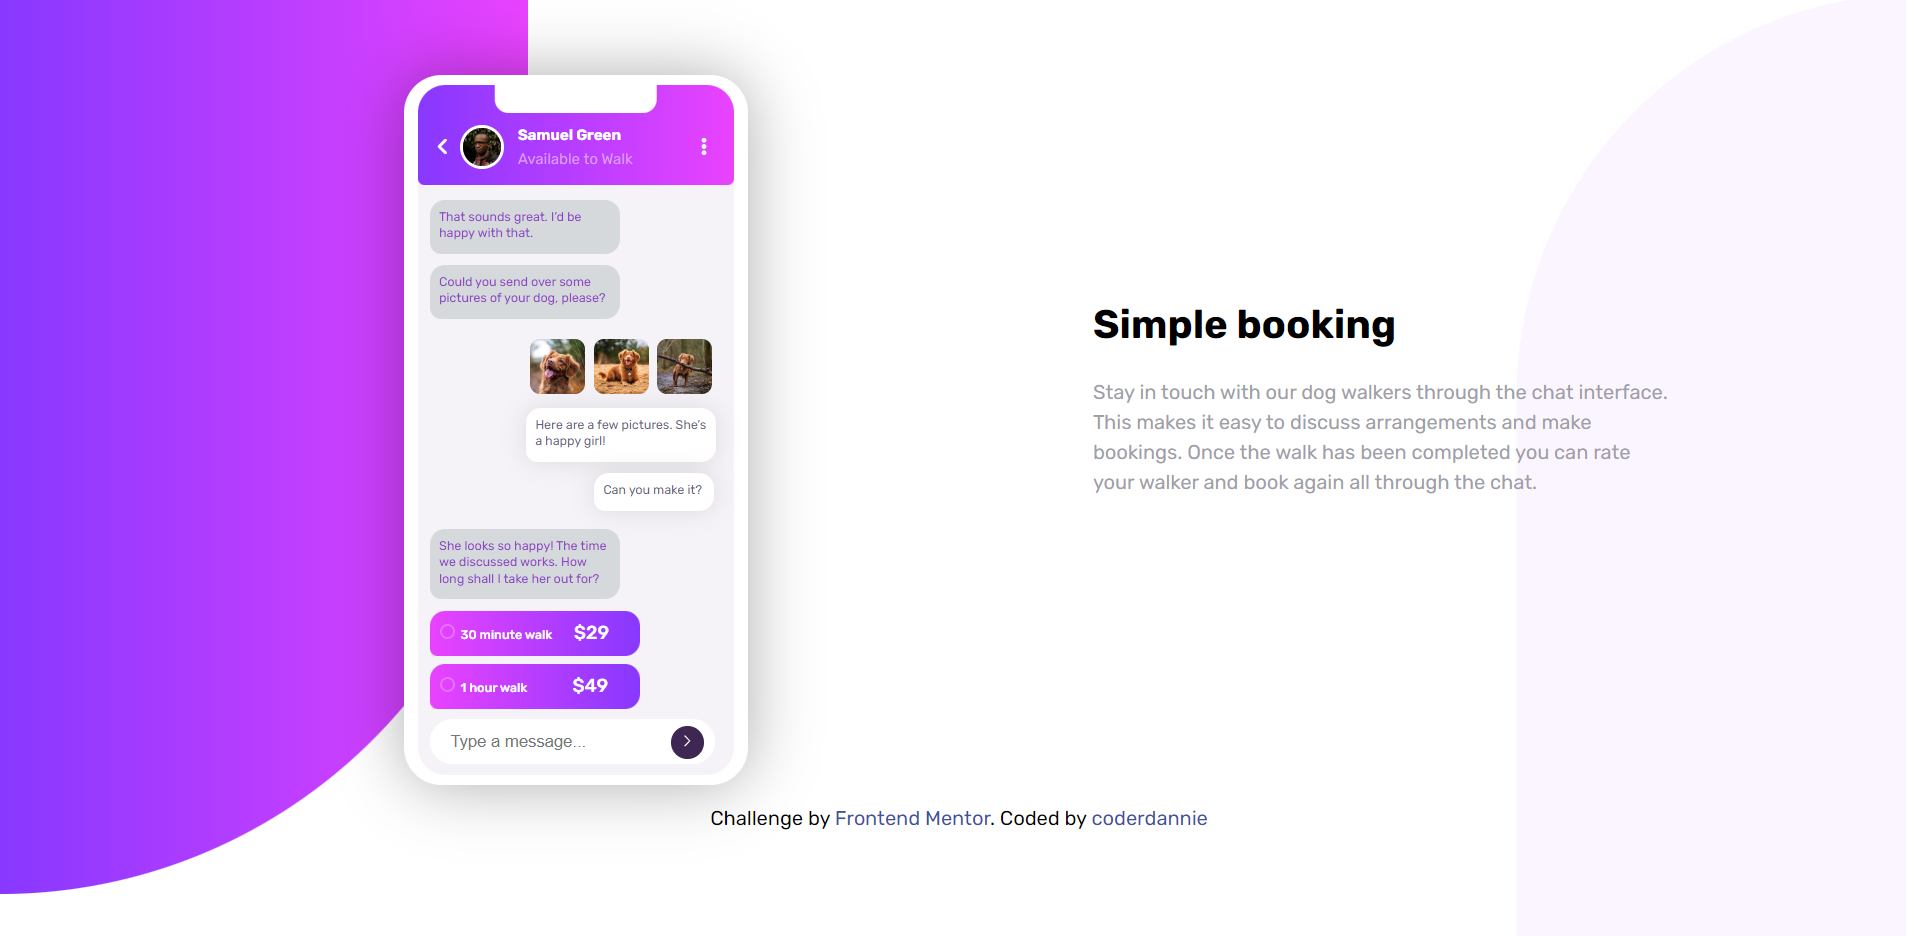
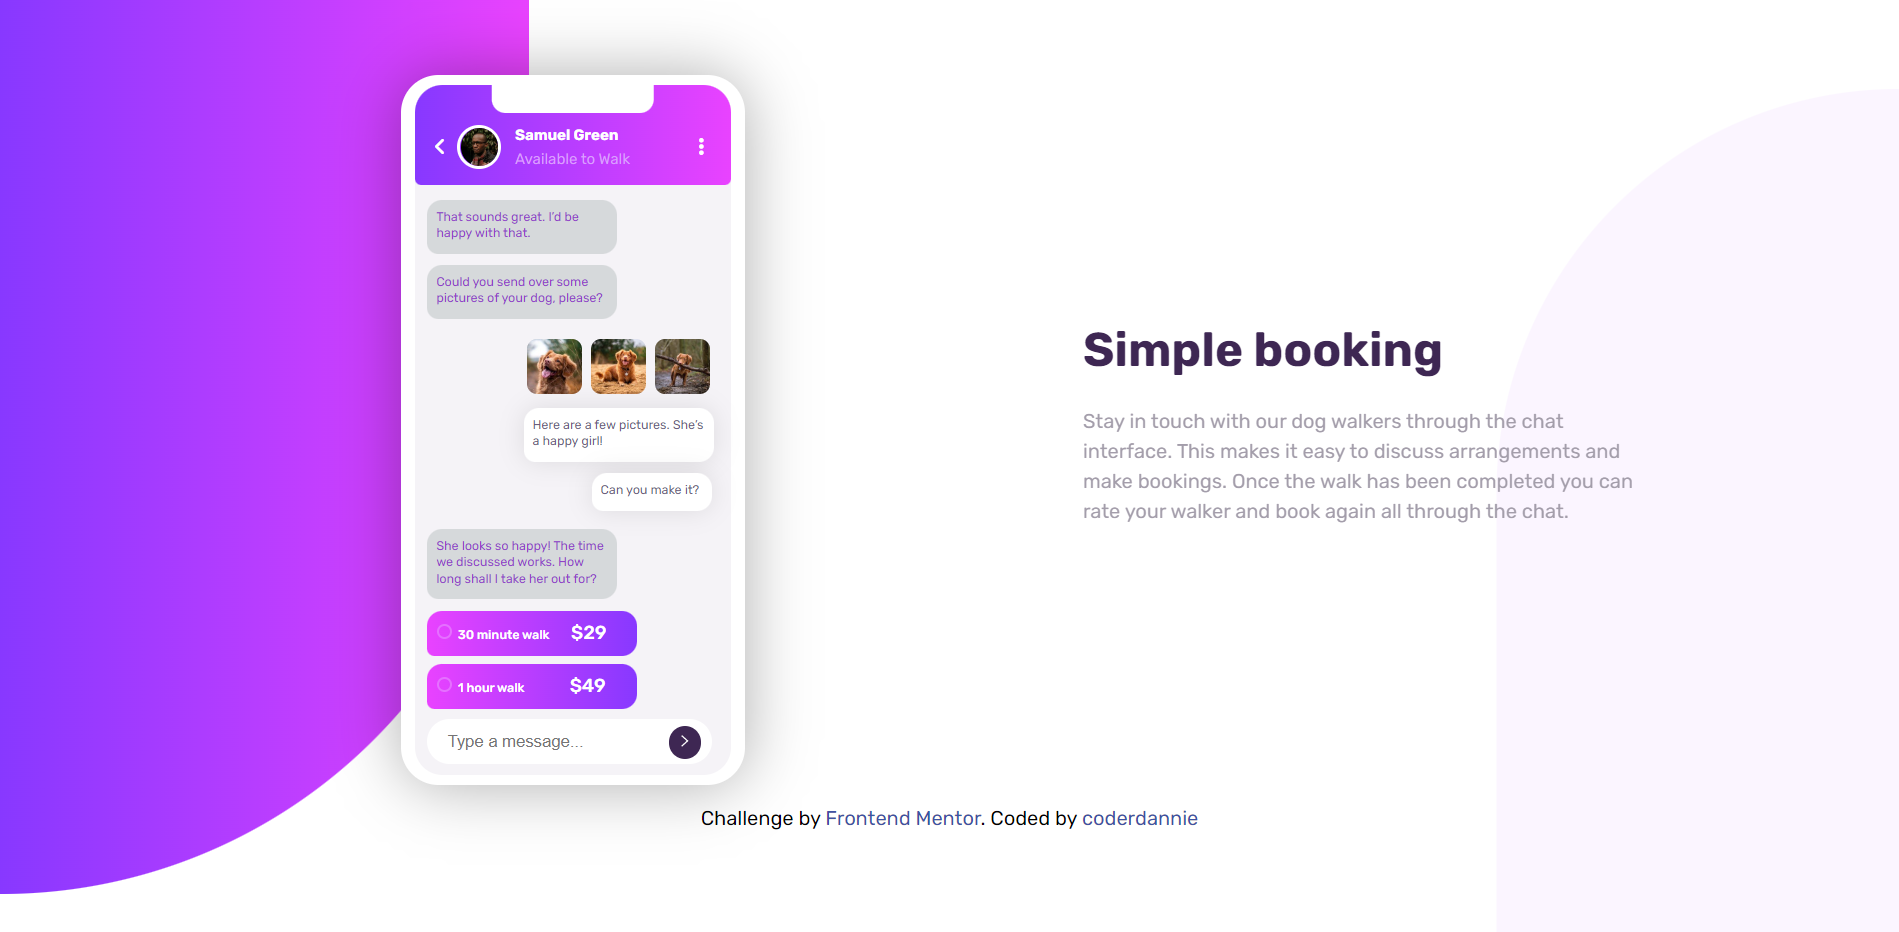
second commit

diff --git a/dist/style.css b/dist/style.css
@@ -1,1 +1,1 @@
-.hero{width:100%;height:100vh;position:relative}.hero::before{content:"";display:block;width:100%;max-width:50%;height:31.25rem;position:absolute;top:0;left:0;background:linear-gradient(to right, hsl(264, 100%, 61%), hsl(293, 100%, 63%));border-bottom-right-radius:1000px}@media(min-width: 64em){.hero::before{height:45rem;max-width:26.4375rem}}@media(min-width: 64em){.hero::after{content:"";width:322px;display:block;height:100%;background-color:#fbf5ff;border-bottom-right-radius:400px;position:absolute;z-index:-1;bottom:0;right:0;transform:rotate(180deg)}}html{font-size:100;box-sizing:border-box;scroll-behavior:smooth}*,*::before,*::after{box-sizing:inherit;padding:0;margin:0}a,a:visited{text-decoration:none}body{width:100%;font-family:"Rubik",sans-serif;font-size:1rem;line-height:1.1}@media(min-width: 64em){.body__background{display:flex;align-items:center;justify-content:space-around}}.flex{display:flex}.flex-jc-sb{justify-content:space-between}.flex-jc-c{justify-content:center}@media(min-width: 64em){.hide-for-desktop{display:none}}@media(min-width: 40em){.hide-for-mobile{display:none}}.app__container{position:relative;height:40.625rem}.app{position:absolute;top:5%;left:50%;transform:translateX(-50%);width:17.1875rem;height:35.5rem;background-color:#fff;border-radius:30px;box-shadow:0 0 50px rgba(0,0,0,.3);display:flex;justify-content:center;align-items:center}@media(min-width: 64em){.app{position:relative;top:10%;left:45%;transform:translateX(0)}}.app__innercontainer{width:15.8rem;height:34.5rem;background-color:#f5f3f7;border-radius:22px}.app__header{width:15.8rem;height:5rem;position:relative;background:linear-gradient(to right, hsl(264, 100%, 61%), hsl(293, 100%, 63%));border-top-left-radius:22px;border-top-right-radius:22px;border-bottom-left-radius:5px;border-bottom-right-radius:5px;padding-top:32px;padding-inline:16px}.app__header::after{content:"";display:block;position:absolute;top:0;left:50%;transform:translateX(-50%);width:130px;height:22px;background-color:#fff;border-bottom-left-radius:11px;border-bottom-right-radius:11px}.app__header-content{display:flex;align-items:center}.app__header-img{width:2.1875rem;height:2.1875rem;border-radius:50%;border:3px solid #fff;display:inline-block;text-align:center}.app__header-img img{width:1.875rem;height:1.875rem;border-radius:50%}.app__header-text{font-size:.75rem;color:#fff;padding-left:.6875rem}.app__header-text p{color:#d89eff;padding-top:.375rem}.app .fa-solid{color:#fff;padding-right:.625rem}.app .dots{padding-left:3.4375rem;padding-right:0}.app__chatbox{padding:12px 10px 11px}.app__chat{width:9.5rem;font-size:.625rem;line-height:1.3;padding:7px;padding-bottom:10px;border-top-left-radius:12px;border-top-right-radius:12px;border-bottom-left-radius:9px;border-bottom-right-radius:12px;margin-bottom:.5625rem}.app__chat-left{background-color:#d6d9db;color:#9241c8}.app__chat-right{background-color:#fff;color:#6e5d7e;box-shadow:0 0 20px rgba(0,0,0,.1)}.app__chat-right:last-child{width:6rem;margin-left:3.4rem;margin-bottom:15px}.app__right-chart-container{margin-top:1rem;margin-left:4.8125rem}.app__chart-img{margin-bottom:.5rem}.app__chart-img img{width:2.75rem;height:2.75rem;border-radius:.5rem;margin-left:3px}.app__chat-cta{width:10.5rem;font-size:.625rem;font-weight:500 !important;color:#fff;background:linear-gradient(to left, hsl(264, 100%, 61%), hsl(293, 100%, 63%));border-top-left-radius:12px;border-top-right-radius:12px;border-bottom-left-radius:6px;border-bottom-right-radius:12px;padding-top:10px;padding-bottom:10px;padding-left:8px;padding-right:16px;margin-bottom:.375rem}.app__chat-cta p{display:inline-block}.app__chat-cta span{font-size:.9375rem;padding-left:.9375rem}.app #span{padding-left:2.125rem}.app form{position:relative;margin-top:.5rem}.app input[type=text]{width:228px;height:36px;padding-left:1rem;border-radius:18px;border:0}.app__radio-btn{display:inline-block;width:.75rem;height:.75rem;border-radius:50%;border:2px solid #e570ff;margin-right:2px}.app button{width:1.625rem;height:1.625rem;position:absolute;right:6%;top:15%;border-radius:50%;border:0;background-color:#3e2753;cursor:pointer}.app button img{width:6px}.main__content{max-width:80%;text-align:center;margin:0 auto;margin-bottom:50px}@media(min-width: 64em){.main__content{max-width:30%;text-align:left;margin:0 0}}.main__content h4{font-size:2.375rem;color:#3e2753;padding-top:2.5rem}.main__content p{color:#a39daa;font-size:1rem;line-height:1.5;padding-top:1.5rem}/*# sourceMappingURL=style.css.map */
+.hero{width:100%;height:100vh;position:relative}.hero::before{content:"";display:block;width:100%;max-width:50%;height:31.25rem;position:absolute;top:0;left:0;background:linear-gradient(to right, hsl(264, 100%, 61%), hsl(293, 100%, 63%));border-bottom-right-radius:1000px}@media(min-width: 64em){.hero::before{height:45rem;max-width:26.4375rem}}@media(min-width: 64em){.hero::after{content:"";width:322px;display:block;height:100%;background-color:#fbf5ff;border-bottom-right-radius:400px;position:absolute;z-index:-1;bottom:0;right:0;transform:rotate(180deg) translateY(-10%)}}html{font-size:100;box-sizing:border-box;scroll-behavior:smooth}*,*::before,*::after{box-sizing:inherit;padding:0;margin:0}a,a:visited{text-decoration:none}body{width:100%;font-family:"Rubik",sans-serif;font-size:1rem;line-height:1.1}@media(min-width: 64em){.body__background{display:flex;align-items:center;justify-content:space-around}}.flex{display:flex}.flex-jc-sb{justify-content:space-between}.flex-jc-c{justify-content:center}@media(min-width: 64em){.hide-for-desktop{display:none}}@media(min-width: 40em){.hide-for-mobile{display:none}}.app__container{position:relative;height:40.625rem}.app{--app-load: 500ms;--app-chats-load-time: 700ms;position:absolute;top:5%;left:50%;transform:translateX(-50%);width:17.1875rem;height:35.5rem;background-color:#fff;border-radius:30px;box-shadow:0 0 50px rgba(0,0,0,.3);display:flex;justify-content:center;align-items:center;animation:app-load var(--app-load) ease-in}@media(min-width: 64em){.app{position:relative;top:10%;left:45%;transform:translateX(0)}}.app__innercontainer{width:15.8rem;height:34.5rem;background-color:#f5f3f7;border-radius:22px}.app__header{width:15.8rem;height:5rem;position:relative;background:linear-gradient(to right, hsl(264, 100%, 61%), hsl(293, 100%, 63%));border-top-left-radius:22px;border-top-right-radius:22px;border-bottom-left-radius:5px;border-bottom-right-radius:5px;padding-top:32px;padding-inline:16px}.app__header::after{content:"";display:block;position:absolute;top:0;left:50%;transform:translateX(-50%);width:130px;height:22px;background-color:#fff;border-bottom-left-radius:11px;border-bottom-right-radius:11px}.app__header-content{display:flex;align-items:center}.app__header-img{width:2.1875rem;height:2.1875rem;border-radius:50%;border:3px solid #fff;display:inline-block;text-align:center}.app__header-img img{width:1.875rem;height:1.875rem;border-radius:50%}.app__header-text{font-size:.75rem;color:#fff;padding-left:.6875rem}.app__header-text p{color:#d89eff;padding-top:.375rem}.app .fa-solid{color:#fff;padding-right:.625rem}.app .dots{padding-left:3.4375rem;padding-right:0}.app__chatbox{padding:12px 10px 11px}.app__chat-animate{animation-name:chats-load;animation-duration:var(--app-chats-load-time);animation-timing-function:ease-in;animation-delay:var(--app-load);animation-fill-mode:forwards;transform:scale(0)}.app__chat{width:9.5rem;font-size:.625rem;line-height:1.3;padding:7px;padding-bottom:10px;border-top-left-radius:12px;border-top-right-radius:12px;border-bottom-left-radius:9px;border-bottom-right-radius:12px;margin-bottom:.5625rem}.app__chat-left{background-color:#d6d9db;color:#9241c8}.app__chat-right{background-color:#fff;color:#6e5d7e;box-shadow:0 0 20px rgba(0,0,0,.1)}.app__chat-right:last-child{width:6rem;margin-left:3.4rem;margin-bottom:15px}.app__right-chart-container{margin-top:1rem;margin-left:4.8125rem}.app__chart-img{margin-bottom:.5rem}.app__chart-img img{width:2.75rem;height:2.75rem;border-radius:.5rem;margin-left:3px}.app__chat-cta{width:10.5rem;font-size:.625rem;font-weight:500 !important;color:#fff;background:linear-gradient(to left, hsl(264, 100%, 61%), hsl(293, 100%, 63%));border-top-left-radius:12px;border-top-right-radius:12px;border-bottom-left-radius:6px;border-bottom-right-radius:12px;padding-top:10px;padding-bottom:10px;padding-left:8px;padding-right:16px;margin-bottom:.375rem}.app__chat-cta p{display:inline-block}.app__chat-cta span{font-size:.9375rem;padding-left:.9375rem}.app #span{padding-left:2.125rem}.app form{position:relative;margin-top:.5rem}.app input[type=text]{width:228px;height:36px;padding-left:1rem;border-radius:18px;border:0}.app__radio-btn{display:inline-block;width:.75rem;height:.75rem;border-radius:50%;border:2px solid #e570ff;margin-right:2px}.app button{width:1.625rem;height:1.625rem;position:absolute;right:6%;top:15%;border-radius:50%;border:0;background-color:#3e2753;cursor:pointer}.app button img{width:6px}@keyframes app-load{0%{left:0;transform:translateX(-200%)}100%{left:50%;transform:translateX(-50%)}}@keyframes chats-load{0%{transform:scale(0)}90%{transform:scale(1.1)}100%{transform:scale(1)}}.main__content{max-width:80%;text-align:center;margin:0 auto;margin-bottom:50px}@media(min-width: 64em){.main__content{max-width:30%;text-align:left;margin:0 0}}.main__content h1{color:#3e2753;padding-top:2.5rem;animation:content-load 300ms ease-in 900ms;animation-fill-mode:forwards;transform:translateX(-20px);opacity:0}@media(min-width: 64em){.main__content h1{font-size:2.375rem}}.main__content p{color:#a39daa;font-size:1rem;line-height:1.5;padding-top:1.5rem;animation:content-load 300ms ease-in 1200ms;animation-fill-mode:forwards;transform:translateX(-20px);opacity:0}@keyframes content-load{0%{transform:translateY(-20px);opacity:0}100%{transform:translateY(0);opacity:1}}/*# sourceMappingURL=style.css.map */

diff --git a/index.html b/index.html
@@ -11,7 +11,7 @@
       sizes="32x32"
       href="./images/favicon-32x32.png"
     />
-    <title>Frontend Mentor | [Challenge Name Here]</title>
+    <title>Frontend Mentor | [chat app]</title>
     <link rel="preconnect" href="https://fonts.googleapis.com" />
     <link
       href="https://fonts.googleapis.com/css2?family=Rubik:wght@400;500;700&display=swap"
@@ -45,35 +45,35 @@
                     <i class="fa-solid fa-ellipsis-vertical dots"></i>
                   </div>
                 </div>
-                <div class="app__chatbox">
-                  <div class="app__chat app__chat-left">
+                <div class="app__chatbox ">
+                  <div class="app__chat app__chat-left app__chat-animate">
                     That sounds great. I’d be happy with that.
                   </div>
-                  <div class="app__chat app__chat-left">
+                  <div class="app__chat app__chat-left app__chat-animate">
                     Could you send over some pictures of your dog, please?
                   </div>
                   <div class="app__right-chart-container">
-                    <div class="app__chart-img">
+                    <div class="app__chart-img app__chat-animate">
                       <img src="images/dog-image-1.jpg" alt="" />
                       <img src="images/dog-image-2.jpg" alt="" />
                       <img src="images/dog-image-3.jpg" alt="" />
                     </div>
-                    <div class="app__chat app__chat-right">
+                    <div class="app__chat app__chat-right app__chat-animate">
                       Here are a few pictures. She’s a happy girl!
                     </div>
-                    <div class="app__chat app__chat-right">Can you make it?</div>
+                    <div class="app__chat app__chat-right app__chat-animate">Can you make it?</div>
                   </div>
-                  <div class="app__chat app__chat-left">
+                  <div class="app__chat app__chat-left app__chat-animate">
                     She looks so happy! The time we discussed works. How long
                     shall I take her out for?
                   </div>
-                  <div class="app__chat-cta">
-                    <div class="app__radio-btn">
+                  <div class="app__chat-cta app__chat-animate">
+                    <div class="app__radio-btn ">
                     </div>
                     <p>30 minute walk</p>
                     <span>$29</span>
                   </div>
-                  <div class="app__chat-cta">
+                  <div class="app__chat-cta app__chat-animate">
                     <div class="app__radio-btn">
                     </div>
                     <p>1 hour walk</p>

diff --git a/app/scss/_app.scss b/app/scss/_app.scss
@@ -3,6 +3,8 @@
   height: 40.625rem;
 }
 .app {
+  --app-load: 500ms;
+  --app-chats-load-time: 700ms;
   @include breakpoint-up(large) {
     position: relative;
     top: 10%;
@@ -21,6 +23,7 @@
   display: flex;
   justify-content: center;
   align-items: center;
+  animation: app-load var(--app-load) ease-in;
   &__innercontainer {
     width: 15.8rem;
     height: 34.5rem;
@@ -39,7 +42,7 @@
     padding-top: 32px;
     padding-inline: 16px;
     &::after {
-      content: "";
+      content: '';
       display: block;
       position: absolute;
       top: 0;
@@ -90,6 +93,14 @@
   &__chatbox {
     padding: 12px 10px 11px;
   }
+  &__chat-animate {
+    animation-name: chats-load;
+    animation-duration: var(--app-chats-load-time);
+    animation-timing-function: ease-in;
+    animation-delay: var(--app-load);
+    animation-fill-mode: forwards;
+    transform: scale(0);
+  }
   &__chat {
     width: 9.5rem;
     font-size: 0.625rem;
@@ -101,6 +112,7 @@
     border-bottom-left-radius: 9px;
     border-bottom-right-radius: 12px;
     margin-bottom: 0.5625rem;
+
     &-left {
       background-color: hsl(204, 7%, 85%);
       color: $moderateviolet;
@@ -116,6 +128,7 @@
       margin-bottom: 15px;
     }
   }
+
   &__right-chart-container {
     margin-top: 1rem;
     margin-left: 4.8125rem;
@@ -159,7 +172,7 @@
     position: relative;
     margin-top: 0.5rem;
   }
-  input[type="text"] {
+  input[type='text'] {
     width: 228px;
     height: 36px;
     padding-left: 1rem;
@@ -188,5 +201,28 @@
     img {
       width: 6px;
     }
+  }
+}
+
+@keyframes app-load {
+  0% {
+    left: 0;
+    transform: translateX(-200%);
+  }
+  100% {
+    left: 50%;
+    transform: translateX(-50%);
+  }
+}
+
+@keyframes chats-load {
+  0% {
+    transform: scale(0);
+  }
+  90% {
+    transform: scale(1.1);
+  }
+  100% {
+    transform: scale(1);
   }
 }

diff --git a/app/scss/_maincontent.scss b/app/scss/_maincontent.scss
@@ -8,15 +8,35 @@
   text-align: center;
   margin: 0 auto;
   margin-bottom: 50px;
-  h4 {
-    font-size: 2.375rem;
+  h1 {
+    @include breakpoint-up(large) {
+      font-size: 2.375rem;
+    }
     color: $VeryDarkDesaturatedViolet;
     padding-top: 2.5rem;
+    animation: content-load 300ms ease-in 900ms;
+    animation-fill-mode: forwards;
+    transform: translateX(-20px);
+    opacity: 0;
   }
   p {
     color: $DarkGrayishViolet;
     font-size: 1rem;
     line-height: 1.5;
     padding-top: 1.5rem;
+    animation: content-load 300ms ease-in 1200ms;
+    animation-fill-mode: forwards;
+    transform: translateX(-20px);
+    opacity: 0;
+  }
+}
+@keyframes content-load {
+  0% {
+    transform: translateY(-20px);
+    opacity: 0;
+  }
+  100% {
+    transform: translateY(0);
+    opacity: 1;
   }
 }

diff --git a/app/scss/_hero.scss b/app/scss/_hero.scss
@@ -30,7 +30,7 @@
       z-index: -1;
       bottom: 0;
       right: 0;
-      transform: rotate(180deg);
+      transform: rotate(180deg) translateY(-10%);
     }
   }
 }

diff --git a/README.md b/README.md
@@ -1,92 +1,49 @@
-# Frontend Mentor - Chat app CSS illustration
+# Frontend Mentor - Chat app CSS illustration solution
 
-![Design preview for the Chat app CSS illustration coding challenge](./design/desktop-preview.jpg)
+This is a solution to the [Chat app CSS illustration challenge on Frontend Mentor](https://www.frontendmentor.io/challenges/chat-app-css-illustration-O5auMkFqY). Frontend Mentor challenges help you improve your coding skills by building realistic projects.
 
-## Welcome! 👋
+## Table of contents
 
-Thanks for checking out this front-end coding challenge.
+- [Overview](#overview)
+  - [The challenge](#the-challenge)
+  - [Screenshot](#screenshot)
+  - [Links](#links)
+- [My process](#my-process)
+  - [Built with](#built-with)
+- [Author](#author)
 
-[Frontend Mentor](https://www.frontendmentor.io) challenges help you improve your coding skills by building realistic projects.
+**Note: Delete this note and update the table of contents based on what sections you keep.**
 
-**To do this challenge, you need a strong understanding of HTML and CSS.**
+## Overview
 
-## The challenge
+### The challenge
 
-Your challenge is to build out this feature illustration using HTML & CSS and get it looking as close to the design as possible.
-
-The only assets we provide in this challenge are the image of the person in the app UI and the 3 images of the dog. You need to create everything else using HTML & CSS!
-
-Your users should be able to:
+Users should be able to:
 
 - View the optimal layout for the component depending on their device's screen size
 - **Bonus**: See the chat interface animate on the initial load
 
-Want some support on the challenge? [Join our Slack community](https://www.frontendmentor.io/slack) and ask questions in the **#help** channel.
+### Screenshot
 
-## Where to find everything
+![](./images/screenshot.PNG)
 
-Your task is to build out the project to the designs inside the `/design` folder. You will find both a mobile and a desktop version of the design. 
+### Links
 
-The designs are in JPG static format. Using JPGs will mean that you'll need to use your best judgment for styles such as `font-size`, `padding` and `margin`. 
+- Solution URL: [Solution URl](https://chat-app-coderdannie.netlify.app/)
+- Live Site URL: [Live site URL](https://chat-app-coderdannie.netlify.app/)
 
-If you would like the design files (we provide Sketch & Figma versions) to inspect the design in more detail, you can [subscribe as a PRO member](https://www.frontendmentor.io/pro).
+## My process
 
-You will find all the required assets in the `/images` folder. The assets are already optimized.
+### Built with
 
-There is also a `style-guide.md` file containing the information you'll need, such as color palette and fonts.
+- Semantic HTML5 markup
+- CSS custom properties
+- Flexbox
+- CSS Grid
+- Mobile-first workflow
+- SCSS
 
-## Building your project
+## Author
 
-Feel free to use any workflow that you feel comfortable with. Below is a suggested process, but do not feel like you need to follow these steps:
-
-1. Initialize your project as a public repository on [GitHub](https://github.com/). Creating a repo will make it easier to share your code with the community if you need help. If you're not sure how to do this, [have a read-through of this Try Git resource](https://try.github.io/).
-2. Configure your repository to publish your code to a web address. This will also be useful if you need some help during a challenge as you can share the URL for your project with your repo URL. There are a number of ways to do this, and we provide some recommendations below.
-3. Look through the designs to start planning out how you'll tackle the project. This step is crucial to help you think ahead for CSS classes to create reusable styles.
-4. Before adding any styles, structure your content with HTML. Writing your HTML first can help focus your attention on creating well-structured content.
-5. Write out the base styles for your project, including general content styles, such as `font-family` and `font-size`.
-6. Start adding styles to the top of the page and work down. Only move on to the next section once you're happy you've completed the area you're working on.
-
-## Deploying your project
-
-As mentioned above, there are many ways to host your project for free. Our recommend hosts are:
-
-- [GitHub Pages](https://pages.github.com/)
-- [Vercel](https://vercel.com/)
-- [Netlify](https://www.netlify.com/)
-
-You can host your site using one of these solutions or any of our other trusted providers. [Read more about our recommended and trusted hosts](https://medium.com/frontend-mentor/frontend-mentor-trusted-hosting-providers-bf000dfebe).
-
-## Create a custom `README.md`
-
-We strongly recommend overwriting this `README.md` with a custom one. We've provided a template inside the [`README-template.md`](./README-template.md) file in this starter code.
-
-The template provides a guide for what to add. A custom `README` will help you explain your project and reflect on your learnings. Please feel free to edit our template as much as you like.
-
-Once you've added your information to the template, delete this file and rename the `README-template.md` file to `README.md`. That will make it show up as your repository's README file.
-
-## Submitting your solution
-
-Submit your solution on the platform for the rest of the community to see. Follow our ["Complete guide to submitting solutions"](https://medium.com/frontend-mentor/a-complete-guide-to-submitting-solutions-on-frontend-mentor-ac6384162248) for tips on how to do this.
-
-Remember, if you're looking for feedback on your solution, be sure to ask questions when submitting it. The more specific and detailed you are with your questions, the higher the chance you'll get valuable feedback from the community.
-
-## Sharing your solution
-
-There are multiple places you can share your solution:
-
-1. Share your solution page in the **#finished-projects** channel of the [Slack community](https://www.frontendmentor.io/slack). 
-2. Tweet [@frontendmentor](https://twitter.com/frontendmentor) and mention **@frontendmentor**, including the repo and live URLs in the tweet. We'd love to take a look at what you've built and help share it around.
-3. Share your solution on other social channels like LinkedIn.
-4. Blog about your experience building your project. Writing about your workflow, technical choices, and talking through your code is a brilliant way to reinforce what you've learned. Great platforms to write on are [dev.to](https://dev.to/), [Hashnode](https://hashnode.com/), and [CodeNewbie](https://community.codenewbie.org/).
-
-We provide templates to help you share your solution once you've submitted it on the platform. Please do edit them and include specific questions when you're looking for feedback. 
-
-The more specific you are with your questions the more likely it is that another member of the community will give you feedback.
-
-## Got feedback for us?
-
-We love receiving feedback! We're always looking to improve our challenges and our platform. So if you have anything you'd like to mention, please email hi[at]frontendmentor[dot]io.
-
-This challenge is completely free. Please share it with anyone who will find it useful for practice.
-
-**Have fun building!** 🚀
+- Frontend Mentor - [Frontend Mentor](https://www.frontendmentor.io/profile/coderdannie)
+- Twitter - [Twitter](https://www.twitter.com/coderdannie)
